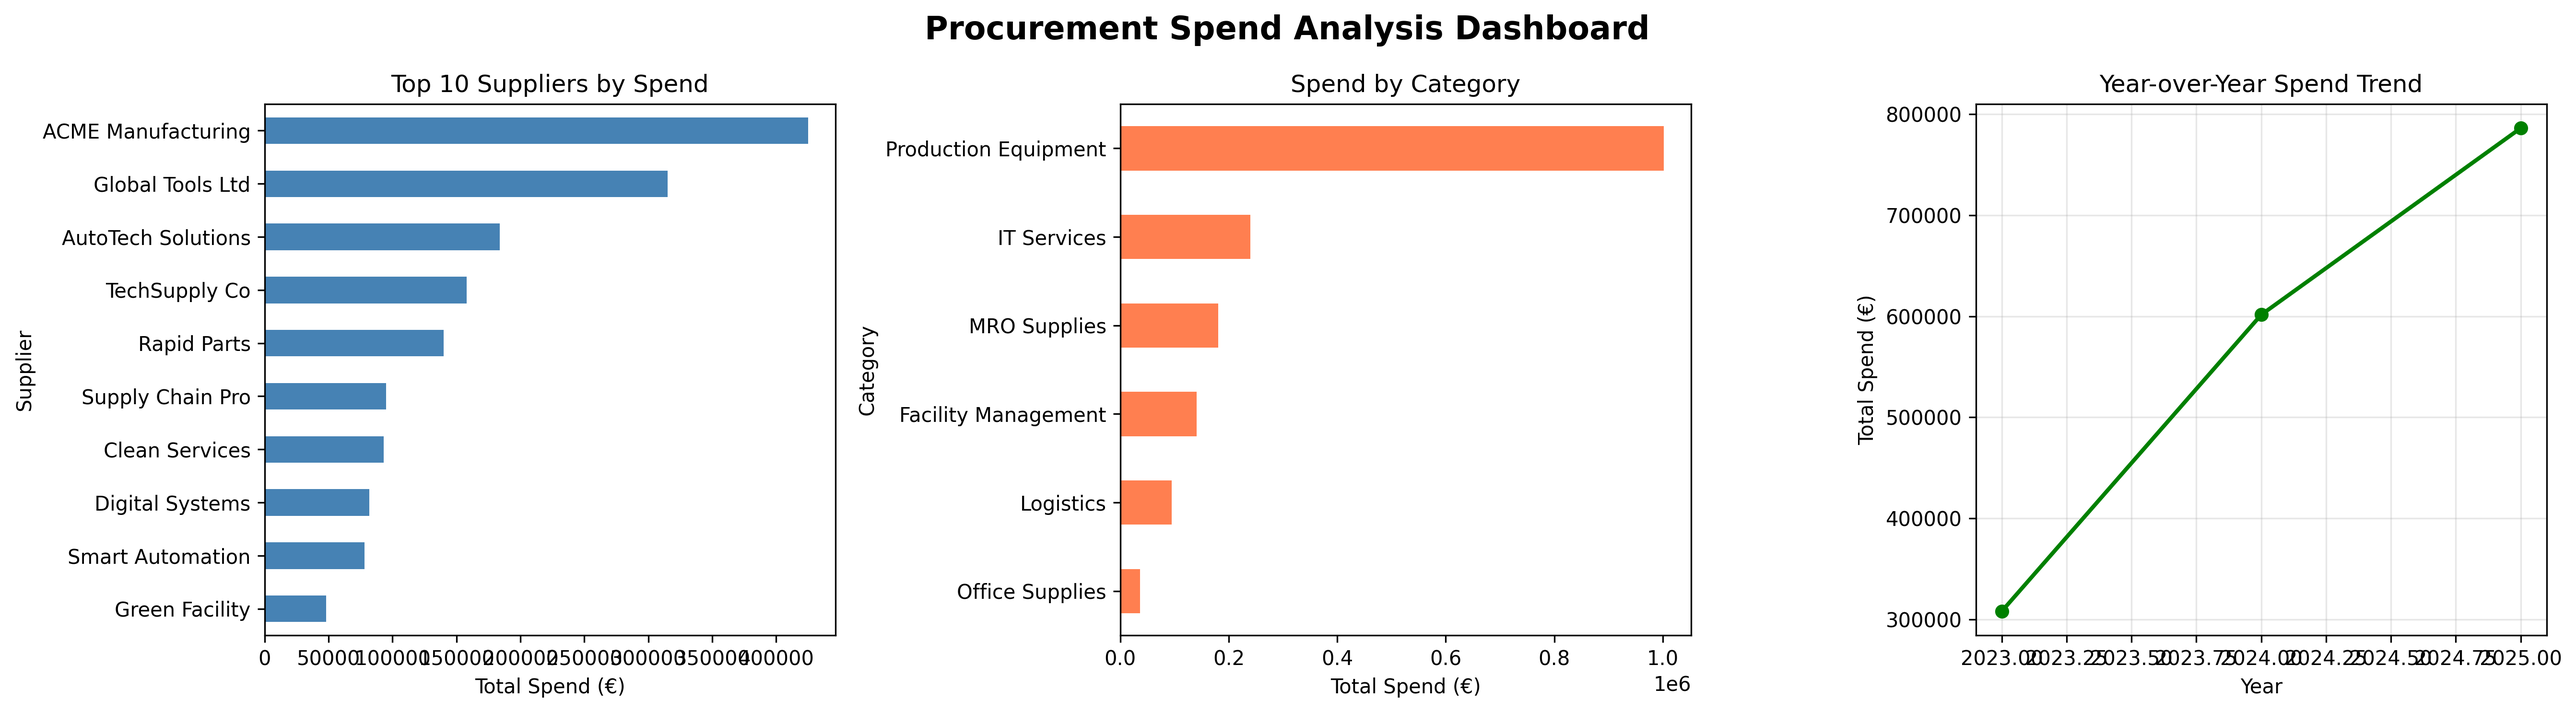
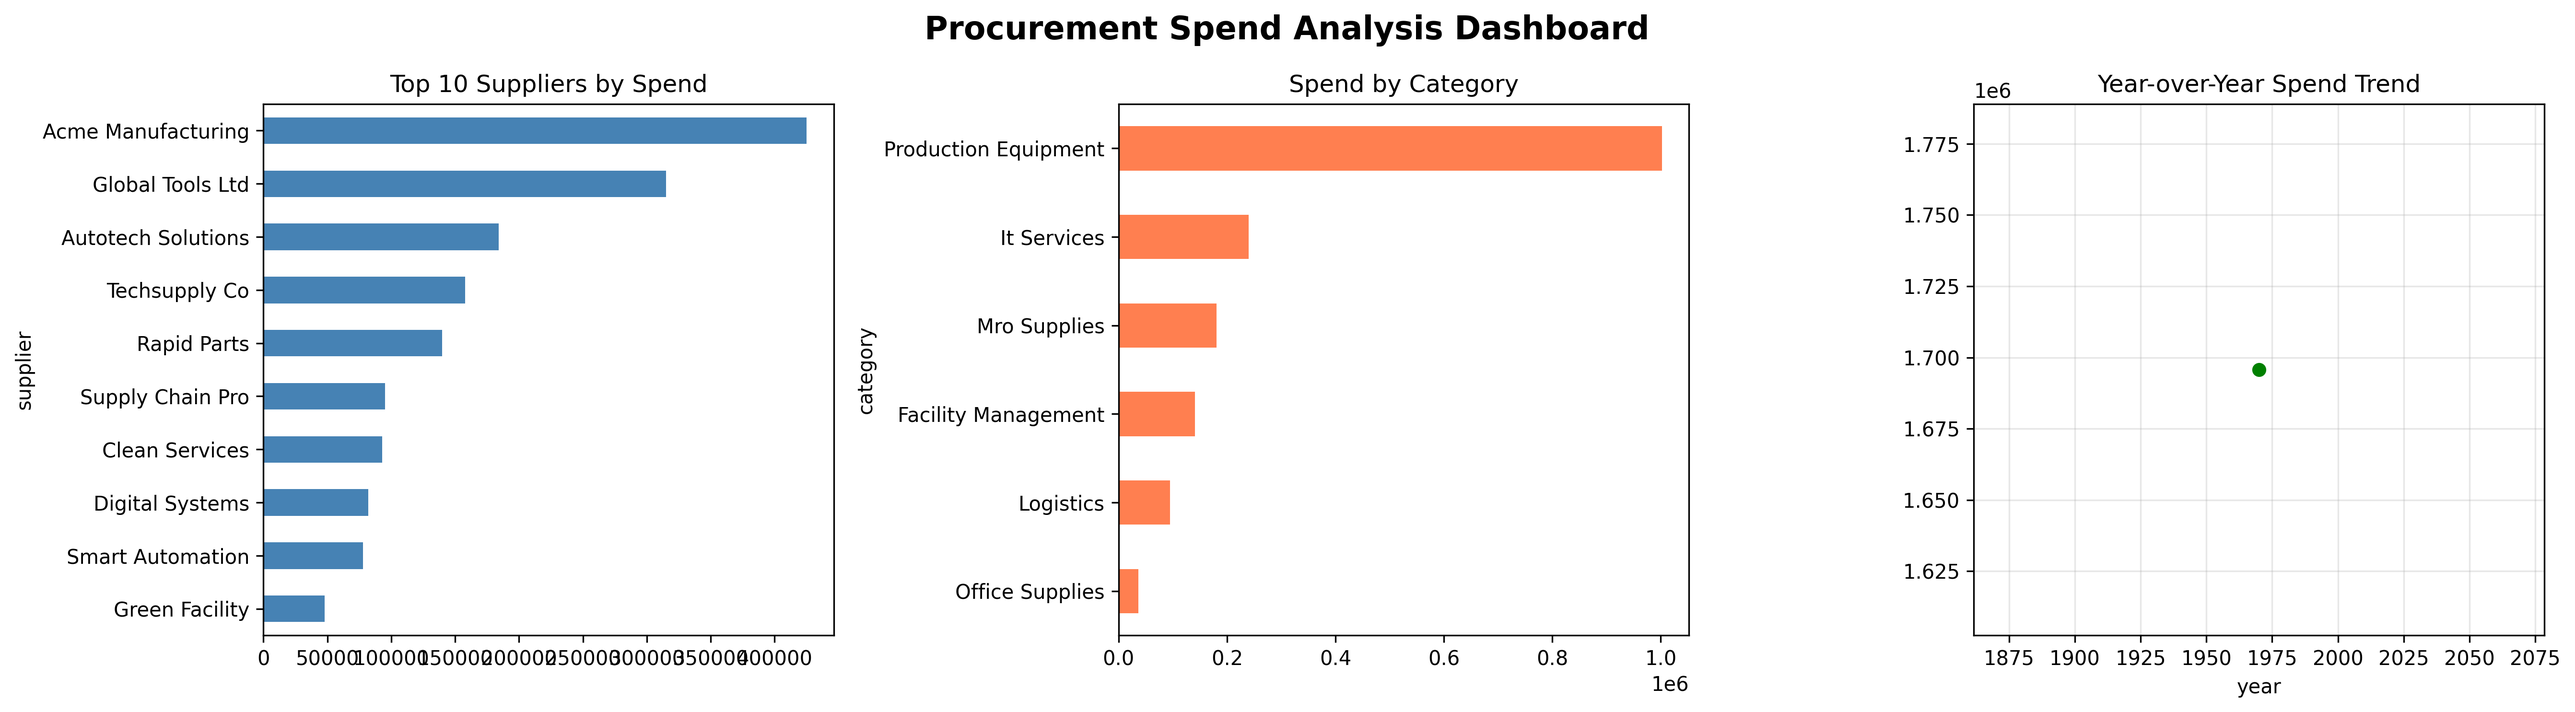
working fine - fine tuning to be done yet

diff --git a/spend_analyser.py b/spend_analyser.py
@@ -9,32 +9,46 @@ import matplotlib.pyplot as plt
 import argparse
 import sys
 import glob
+import os
 from pathlib import Path
 from datetime import datetime
 
 COLUMN_MAP = {
-    "supplier": ["Supplier", "Vendor", "Supplier Name", "Nominated Supplier", "Counterpart"],
-    "spend": ["Spend", "Amount", "Value", "Cost"],
-    "category": ["Category", "Group", "Type"],
-    "year": ["Year", "Fiscal Year", "Period"]
+    "supplier": ["supplier", "vendor", "supplier name", "nominated supplier", "counterpart"],
+    "spend": ["spend", "amount", "value", "cost"],
+    "category": ["category", "group", "type"],
+    "year": ["year", "fiscal year", "period"]
 }
 
-def find_sample_file():
-    """Find a file named 'sample_data' with any supported extension."""
+
+def choose_file():
+    """Let user choose a sample_data file by index."""
+    files = []
     for ext in ["csv", "xls", "xlsx"]:
-        files = glob.glob(f"sample_data.{ext}")
-        if files:
-            return files[0]
-    print("✗ No sample_data file found (csv/xls/xlsx)")
-    sys.exit(1)
+        files.extend(glob.glob(f"sample_data.{ext}"))
 
+    if not files:
+        print("✗ No sample_data file found (csv/xls/xlsx)")
+        sys.exit(1)
 
-def find_column(df, possible_names):
-    """Find the first matching column name from a list of possible names."""
-    for name in possible_names:
-        if name in df.columns:
-            return name
-    raise KeyError(f"None of the expected columns found: {possible_names}")
+    print("\nAvailable files:")
+    for i, f in enumerate(files, start=1):
+        stat = os.stat(f)
+        created = datetime.fromtimestamp(stat.st_mtime).strftime("%Y-%m-%d %H:%M:%S")
+        print(f"{i}. {Path(f).name} (created: {created})")
+
+    choice = input("\nSelect a file by number: ")
+    try:
+        choice = int(choice)
+        if 1 <= choice <= len(files):
+            return files[choice - 1]
+        else:
+            print("✗ Invalid choice")
+            sys.exit(1)
+    except ValueError:
+        print("✗ Invalid input")
+        sys.exit(1)
+
 
 class SpendAnalyzer:
     def __init__(self, file_path):
@@ -42,23 +56,35 @@ class SpendAnalyzer:
         self.df = None
         self.results = None
 
-    def load_data(self):
+    def load_data(self, csv_sep=None):
         """Load data from CSV or Excel (all sheets combined)."""
         try:
             suffix = Path(self.file_path).suffix.lower()
 
             if suffix == ".csv":
-                self.df = pd.read_csv(self.file_path)
-
+                # If your CSV uses semicolons, pass csv_sep=";" when calling load_data
+                if csv_sep:
+                    self.df = pd.read_csv(self.file_path, sep=csv_sep)
+                else:
+                    self.df = pd.read_csv(self.file_path)
             elif suffix in [".xls", ".xlsx"]:
                 xls = pd.ExcelFile(self.file_path)
-                frames = []
-                for sheet in xls.sheet_names:
-                    frames.append(pd.read_excel(xls, sheet_name=sheet))
-                self.df = pd.concat(frames, ignore_index=True)
-
+                frames = [pd.read_excel(xls, sheet_name=sheet) for sheet in xls.sheet_names]
+                if frames:
+                    self.df = pd.concat(frames, ignore_index=True)
+                else:
+                    self.df = pd.DataFrame()
             else:
                 raise ValueError(f"Unsupported file format: {suffix}")
+
+            # Basic validations
+            if not isinstance(self.df, pd.DataFrame):
+                print("✗ Loaded object is not a DataFrame")
+                sys.exit(1)
+
+            if self.df.empty or len(self.df.columns) == 0:
+                print("✗ The file is empty or has no columns")
+                sys.exit(1)
 
             print(f"✓ Loaded {len(self.df)} records from {self.file_path}")
 
@@ -71,57 +97,118 @@ class SpendAnalyzer:
 
     def standardize_columns(self):
         """Rename columns to unified internal names (supplier, spend, category, year)."""
-        rename_map = {}
+        if self.df is None:
+            print("✗ No data loaded, cannot standardize columns")
+            sys.exit(1)
 
+        # Normalize column names: strip and lowercase
+        self.df.columns = self.df.columns.str.strip().str.lower()
+
+        # Build rename map using lowercase names from COLUMN_MAP
+        rename_map = {}
         for unified_name, possible_names in COLUMN_MAP.items():
             for name in possible_names:
-                if name in self.df.columns:
-                    rename_map[name] = unified_name
+                name_l = name.lower()
+                if name_l in self.df.columns:
+                    rename_map[name_l] = unified_name
                     break
 
-        self.df = self.df.rename(columns=rename_map)
+        # Apply renaming (only keys present)
+        if rename_map:
+            self.df = self.df.rename(columns=rename_map)
 
-        missing = [col for col in COLUMN_MAP.keys() if col not in self.df.columns]
-        if missing:
-            print(f"✗ Missing required columns after standardization: {missing}")
+        # Required columns
+        required = ["supplier", "spend"]
+        missing_required = [col for col in required if col not in self.df.columns]
+        if missing_required:
+            print(f"✗ Missing required columns: {missing_required}")
             sys.exit(1)
+
+        # Optional columns
+        optional = ["category", "year"]
+        missing_optional = [col for col in optional if col not in self.df.columns]
+        if missing_optional:
+            print(f"⚠ Warning: Missing optional columns: {missing_optional}. Some analyses will be skipped.")
 
         print("✓ Column names standardized")
 
     def clean_data(self):
         """Clean and standardize data formats."""
+        if self.df is None:
+            print("✗ No data loaded, cannot clean")
+            sys.exit(1)
+
         # Convert spend to numeric
         self.df["spend"] = pd.to_numeric(self.df["spend"], errors="coerce")
 
+        # If year exists, try to coerce to integer year
+        if "year" in self.df.columns:
+            try:
+                self.df["year"] = pd.to_datetime(self.df["year"], errors="coerce").dt.year
+            except Exception:
+                # fallback: try numeric conversion
+                self.df["year"] = pd.to_numeric(self.df["year"], errors="coerce")
+
+        # Clean text fields
+        if "supplier" in self.df.columns:
+            self.df["supplier"] = self.df["supplier"].astype(str).str.strip().str.title()
+        if "category" in self.df.columns:
+            self.df["category"] = self.df["category"].astype(str).str.strip().str.title()
+
         # Drop rows without spend value
         self.df = self.df.dropna(subset=["spend"])
+
+        # Remove duplicates
+        self.df = self.df.drop_duplicates()
+
+        # Remove negative or zero spend if that is desired (keep zero if you want)
+        self.df = self.df[self.df["spend"] >= 0]
+
+        if self.df.empty:
+            print("✗ No valid rows after cleaning")
+            sys.exit(1)
 
         print("✓ Data cleaned and standardized")
 
     def analyze(self):
         """Perform spend analysis calculations."""
+        if self.df is None:
+            print("✗ No data loaded, cannot analyze")
+            sys.exit(1)
+
         top_suppliers = self.df.groupby("supplier")["spend"].sum().nlargest(10).sort_values(ascending=True)
-        spend_by_category = self.df.groupby("category")["spend"].sum().sort_values(ascending=True)
-        yoy_trend = self.df.groupby("year")["spend"].sum().sort_index()
+
+        if "category" in self.df.columns:
+            spend_by_category = self.df.groupby("category")["spend"].sum().sort_values(ascending=True)
+        else:
+            spend_by_category = pd.Series(dtype=float)
+
+        if "year" in self.df.columns:
+            yoy_trend = self.df.groupby("year")["spend"].sum().sort_index()
+        else:
+            yoy_trend = pd.Series(dtype=float)
 
         self.results = {
             "top_suppliers": top_suppliers,
             "spend_by_category": spend_by_category,
             "yoy_trend": yoy_trend,
-            "total_spend": self.df["spend"].sum(),
-            "avg_spend": self.df["spend"].mean(),
-            "supplier_count": self.df["supplier"].nunique()
+            "total_spend": float(self.df["spend"].sum()),
+            "avg_spend": float(self.df["spend"].mean()),
+            "supplier_count": int(self.df["supplier"].nunique())
         }
-
         print("✓ Analysis complete")
 
     def report(self):
         """Generate text summary report."""
+        if self.results is None:
+            print("✗ No results to report")
+            sys.exit(1)
+
         r = self.results
 
-        print("\n" + "="*60)
+        print("\n" + "=" * 60)
         print("PROCUREMENT SPEND ANALYSIS REPORT")
-        print("="*60)
+        print("=" * 60)
         print(f"\nTotal Spend: €{r['total_spend']:,.2f}")
         print(f"Average Transaction: €{r['avg_spend']:,.2f}")
         print(f"Number of Suppliers: {r['supplier_count']}")
@@ -130,48 +217,94 @@ class SpendAnalyzer:
         for supplier, spend in r["top_suppliers"].tail(3).items():
             print(f"  • {supplier}: €{spend:,.2f}")
 
-        print("\nTop 3 Categories:")
-        for category, spend in r["spend_by_category"].tail(3).items():
-            print(f"  • {category}: €{spend:,.2f}")
+        if not r["spend_by_category"].empty:
+            print("\nTop 3 Categories:")
+            for category, spend in r["spend_by_category"].tail(3).items():
+                print(f"  • {category}: €{spend:,.2f}")
 
-        years = r["yoy_trend"].index
-        if len(years) >= 2:
-            latest = years[-1]
-            previous = years[-2]
+        if not r["yoy_trend"].empty and len(r["yoy_trend"].index) >= 2:
+            latest = r["yoy_trend"].index[-1]
+            previous = r["yoy_trend"].index[-2]
             growth = ((r["yoy_trend"][latest] / r["yoy_trend"][previous]) - 1) * 100
             print(f"\nYoY Growth ({previous} → {latest}): {growth:+.1f}%")
 
-        print("="*60 + "\n")
+        print("=" * 60 + "\n")
 
     def visualize(self, output_path="spend_analysis.png"):
         """Generate visual charts from analysis results."""
+        if self.results is None:
+            print("✗ No results to visualize")
+            sys.exit(1)
+
         r = self.results
 
+        # Prepare subplots; if some series empty, leave blank axes
         fig, axes = plt.subplots(1, 3, figsize=(18, 5))
         fig.suptitle("Procurement Spend Analysis Dashboard", fontsize=16, fontweight="bold")
 
-        r["top_suppliers"].plot(kind="barh", ax=axes[0], color="steelblue")
-        axes[0].set_title("Top 10 Suppliers by Spend")
+        # Top suppliers
+        if not r["top_suppliers"].empty:
+            r["top_suppliers"].plot(kind="barh", ax=axes[0], color="steelblue")
+            axes[0].set_title("Top 10 Suppliers by Spend")
+        else:
+            axes[0].set_visible(False)
 
-        r["spend_by_category"].plot(kind="barh", ax=axes[1], color="coral")
-        axes[1].set_title("Spend by Category")
+        # Spend by category
+        if not r["spend_by_category"].empty:
+            r["spend_by_category"].plot(kind="barh", ax=axes[1], color="coral")
+            axes[1].set_title("Spend by Category")
+        else:
+            axes[1].set_visible(False)
 
-        r["yoy_trend"].plot(kind="line", ax=axes[2], marker="o", color="green", linewidth=2)
-        axes[2].set_title("Year-over-Year Spend Trend")
-        axes[2].grid(True, alpha=0.3)
+        # YoY trend
+        if not r["yoy_trend"].empty:
+            r["yoy_trend"].plot(kind="line", ax=axes[2], marker="o", color="green", linewidth=2)
+            axes[2].set_title("Year-over-Year Spend Trend")
+            axes[2].grid(True, alpha=0.3)
+        else:
+            axes[2].set_visible(False)
 
         plt.tight_layout()
         plt.savefig(output_path, dpi=300, bbox_inches="tight")
+        plt.close(fig)
         print(f"✓ Visualization saved to {output_path}")
 
     def export(self, output_path="cleaned_data.xlsx"):
-        """Export cleaned data to Excel."""
-        self.df.to_excel(output_path, index=False)
-        print(f"✓ Cleaned data exported to {output_path}")
+        """Export cleaned data to Excel, fallback to CSV if openpyxl missing."""
+        if self.df is None:
+            print("✗ No data to export")
+            sys.exit(1)
+
+        # Try Excel first
+        try:
+            # pandas will use openpyxl for .xlsx; if missing, this will raise
+            self.df.to_excel(output_path, index=False)
+            print(f"✓ Cleaned data exported to {output_path}")
+        except Exception as e:
+            # Fallback to CSV
+            fallback = Path(output_path).with_suffix(".csv")
+            try:
+                self.df.to_csv(fallback, index=False)
+                print(f"⚠ Could not write Excel ({e}). Saved CSV fallback to {fallback}")
+            except Exception as e2:
+                print(f"✗ Export failed: {e2}")
+                sys.exit(1)
 
 
 if __name__ == "__main__":
-    file_path = find_sample_file()
+    parser = argparse.ArgumentParser(description="Procurement Spend Analyzer")
+    parser.add_argument(
+        "file", nargs="?", default=None,
+        help="Path to input data file (CSV/XLS/XLSX). If not provided, sample_data.* will be used."
+    )
+    args = parser.parse_args()
+
+    # If user provided a file, use it. Otherwise fall back to sample_data.*
+    if args.file:
+        file_path = args.file
+    else:
+        file_path = choose_file()
+
     analyzer = SpendAnalyzer(file_path)
     analyzer.load_data()
     analyzer.clean_data()
